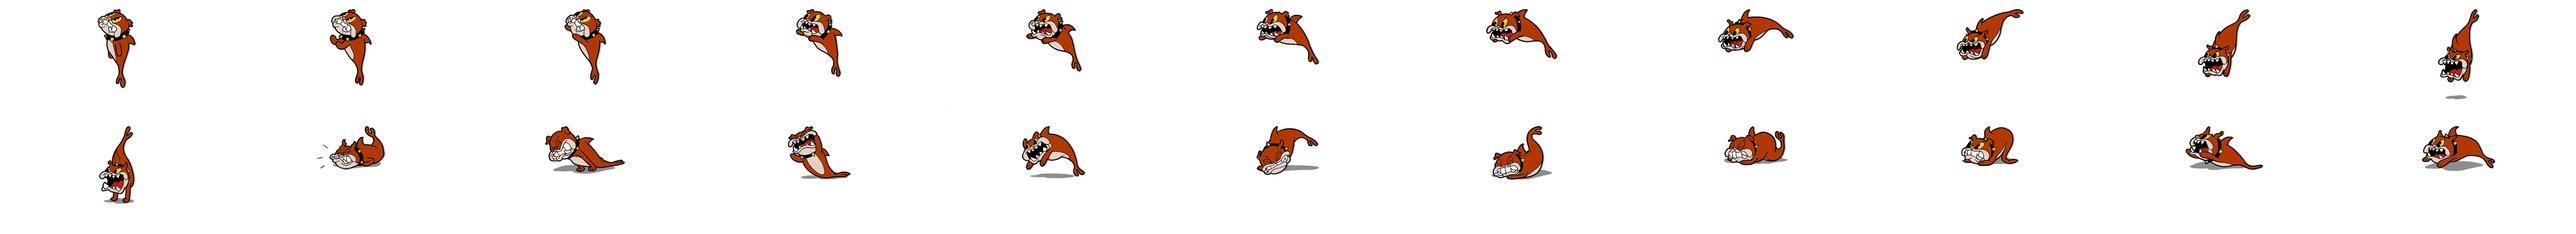
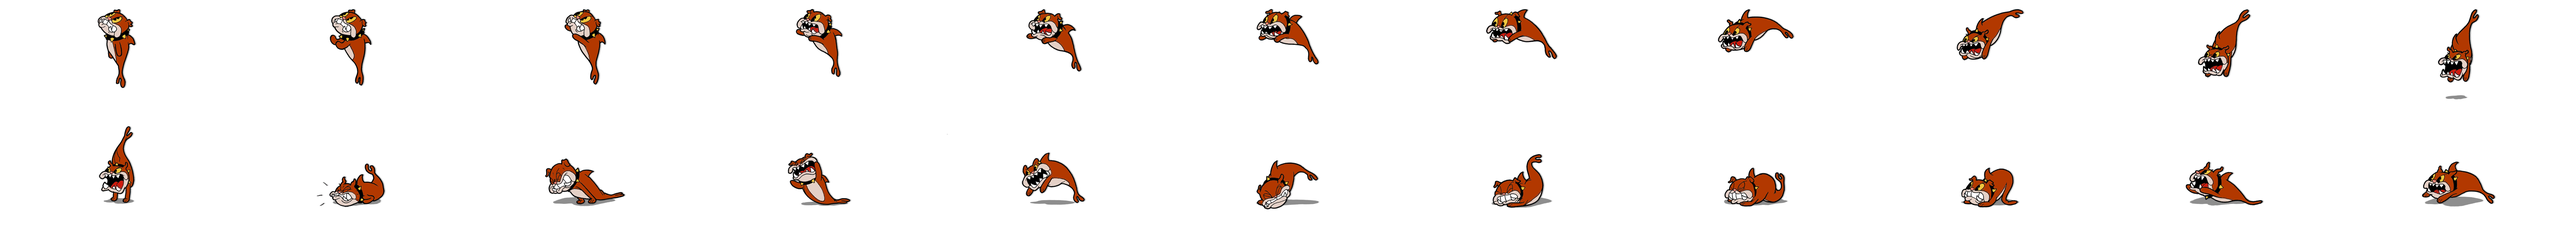
김경윤 : 중간 커밋

diff --git a/DX_KKY/Contents/SeaDog.cpp b/DX_KKY/Contents/SeaDog.cpp
@@ -53,8 +53,8 @@ void ASeaDog::AnimationInit()
 
 void ASeaDog::CreateAnimation()
 {
-	SeaDogRenderer->CreateAnimation(PirateBossAniName::SeaDog_Appear1, "SeaDog_Appear.png", 0.057f, false, 0, 11);
-	SeaDogRenderer->CreateAnimation(PirateBossAniName::SeaDog_Appear2, "SeaDog_Appear.png", 0.0417f, false, 12, 13);
+	SeaDogRenderer->CreateAnimation(PirateBossAniName::SeaDog_Appear1, "SeaDog_Appear.png", 0.0517f, false, 0, 11);
+	SeaDogRenderer->CreateAnimation(PirateBossAniName::SeaDog_Appear2, "SeaDog_Appear.png", 0.057f, false, 12, 13);
 	SeaDogRenderer->CreateAnimation(PirateBossAniName::SeaDog_Appear3, "SeaDog_Appear.png", 0.0417f, false, 14, 15);
 	SeaDogRenderer->CreateAnimation(PirateBossAniName::SeaDog_Appear4, "SeaDog_Appear.png", 0.0417f, false, 16, 19);
 	SeaDogRenderer->CreateAnimation(PirateBossAniName::SeaDog_Appear5, "SeaDog_Appear.png", 0.0417f, false, 20, 21);
@@ -81,6 +81,7 @@ void ASeaDog::StateInit()
 {
 	{
 		State.CreateState(PirateBossState::SeaDog_Appear1);
+		State.CreateState(PirateBossState::SeaDog_Appear2);
 	}
 
 	{
@@ -90,10 +91,24 @@ void ASeaDog::StateInit()
 				SetSpeedVec(float4::Left * Appear1Speed);
 				SeaDogRenderer->ChangeAnimation(PirateBossAniName::SeaDog_Appear1);
 			});
+		State.SetStartFunction(PirateBossState::SeaDog_Appear2, [this]()
+			{
+				SeaDogRenderer->ChangeAnimation(PirateBossAniName::SeaDog_Appear2);
+			});
 	}
 
 	{
 		State.SetUpdateFunction(PirateBossState::SeaDog_Appear1, std::bind(&ASeaDog::Appear_Step1, this, std::placeholders::_1));
+		State.SetUpdateFunction(PirateBossState::SeaDog_Appear2, [](float) {});
+	}
+
+	{
+		State.SetEndFunction(PirateBossState::SeaDog_Appear1, [this]()
+			{
+				SetJumpVec(float4::Zero);
+				SetSpeedVec(float4::Zero);
+				SetGravityAccVec(float4::Zero);
+			});
 	}
 
 	State.ChangeState(PirateBossState::SeaDog_Appear1);
@@ -110,11 +125,11 @@ void ASeaDog::CalGravityVec(float _DeltaTime)
 void ASeaDog::Appear_Step1(float _DeltaTime)
 {
 	float4 Pos = GetActorLocation();
-	Pos.Y = -Pos.Y + 100.0f;
+	Pos.Y = -Pos.Y + PixelCheckOffset;
 
-	if (800.0f >= Pos.X && true == PixelCheck(Pos, Color8Bit::Black))
+	if (FirstAppearXBoundary >= Pos.X && true == PixelCheck(Pos, Color8Bit::Black))
 	{
-		SeaDogRenderer->ChangeAnimation(PirateBossAniName::SeaDog_Appear2);
+		State.ChangeState(PirateBossState::SeaDog_Appear2);
 		return;
 	}
 

diff --git a/DX_KKY/Contents/ContentsValue.h b/DX_KKY/Contents/ContentsValue.h
@@ -379,6 +379,7 @@ namespace PirateBossState
 	const std::string Shark_Leave = "Shark_Leave";
 
 	const std::string SeaDog_Appear1 = "SeaDog_Appear1";
+	const std::string SeaDog_Appear2 = "SeaDog_Appear2";
 
 }
 

diff --git a/DX_KKY/Contents/SeaDog.h b/DX_KKY/Contents/SeaDog.h
@@ -34,6 +34,8 @@ private:
 	
 	float JumpSpeed = 1600.0f;
 	float Appear1Speed = 500.0f;
+	float PixelCheckOffset = 100.0f;
+	float FirstAppearXBoundary = 800.0f;
 
 private:
 	void BeginPlay() override;
